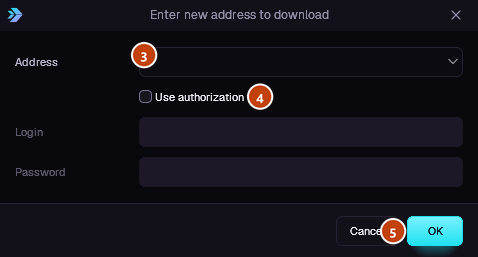
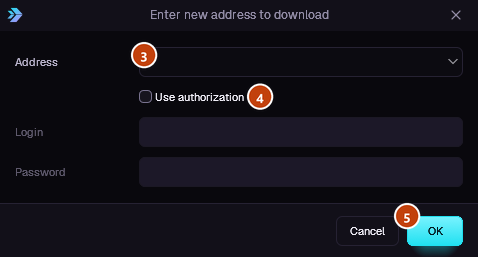
Graphite 09b-shots: the second audit's findings: Helpers shot over its window, crops, marks and alt texts true to the pictures
docs-shots.ps1 shoots /show video-helpers' second window (Helpers over the video window), as it
does Download panels over Options. overnight-later, overnight-done and overnight-start crop
whole controls; add-url's 5 and options-integration's 1 and 2 sit beside what they number,
not on it. The alt texts and captions of first-add-url, rss-feeds, options-connection,
speed-limiter and options-logins say what their pictures show (in shots.toml and the help
pages). make.py check: 63 shots, 0 problems.

Changed region(s): [[0.7908, 0.7782, 0.8787, 0.965]]

diff --git a/docs/options.md b/docs/options.md
@@ -64,8 +64,8 @@ MDM doesn't use a temporary folder: every connection writes straight into the fi
 
 ## Connection
 
-![Options on its Connection page: connections per download, the network adapter and per-server exceptions](images/help/options-connection.webp)
-*Connection: how many connections, through which network adapter.*
+![Options on its Connection page: connections per download, per-server exceptions, download limits and DNS](images/help/options-connection.webp)
+*Connection: how many connections, exceptions per server, download limits and DNS.*
 
 - **Default max. conn. number** — how many connections each download may use, from 1 to 32 (8 by default). Type the number or use the arrows.
 - **Allow more than 32 connections** — raises the most to 128, for the number above and for the exceptions. Most servers allow far fewer from one address; MDM notices and asks those for fewer. Turned off again, any higher number comes back to 32.
@@ -106,7 +106,7 @@ More in [Connections and speed](connections-and-speed.md).
 
 ## Sites Logins
 
-![Options on its Sites Logins page: a list of sites with their user names](images/help/options-logins.webp)
+![Options on its Sites Logins page, before any site is added: the list of sites with their user names](images/help/options-logins.webp)
 *Sites Logins: a user name and password per site.*
 
 User names and passwords for sites that ask for them. **New** adds a row: the site (with a path if the login is only for part of it), the user name and the password. **Edit** and **Remove** change or delete the selected row. MDM uses the login for every download from that site. A login typed in **Add URL** (**Use authorization**) takes priority for that one download.

diff --git a/docs/guide-keep-speed-for-everything-else.md b/docs/guide-keep-speed-for-everything-else.md
@@ -15,8 +15,8 @@ This cap is shared by every download, however many run at once. It works on its 
 
 To remove it, open the same window and untick **Limit all downloads together to**.
 
-![Speed Limiter settings: the maximum speed for all downloads](images/help/speed-limiter.webp)
-*Downloads → Speed Limiter → Settings...: one speed for all of MDM.*
+![Speed Limiter settings: the maximum speed for one file, and a limit for all downloads together](images/help/speed-limiter.webp)
+*Downloads → Speed Limiter → Settings...: a speed for each file, or one for all downloads together.*
 
 ## Cap each file instead
 

diff --git a/docs/torrents.md b/docs/torrents.md
@@ -74,7 +74,7 @@ A torrent in order isn't faster to finish, and it helps the swarm less: use it f
 
 Many sites publish their new torrents as an RSS or Atom feed. MDM can watch feeds, list what they hold, and add the new torrents you want by itself. Choose **Tasks → RSS feeds...**, or click the arrow next to **Add Torrent**.
 
-![RSS feeds: the feeds MDM follows and their items](images/help/rss-feeds.webp)
+![RSS feeds before any is added: the list of feeds, their items and the rules](images/help/rss-feeds.webp)
 *RSS feeds, and the rules that pick what to download.*
 
 **Feeds** tab:

diff --git a/docs/guide-first-download.md b/docs/guide-first-download.md
@@ -16,7 +16,7 @@ From a copied link to an opened file in a minute or two.
 
 <!-- steps -->
 
-1. ![Enter new address to download with the copied address filled in](images/help/first-add-url.webp)
+1. ![Enter new address to download, its OK button ringed](images/help/first-add-url.webp)
    *Add URL: the copied address is already there. Click OK.*
 2. ![Download File Info with the file's name, size and folder](images/help/first-file-info.webp)
    *Check the folder, then Start Download.*
